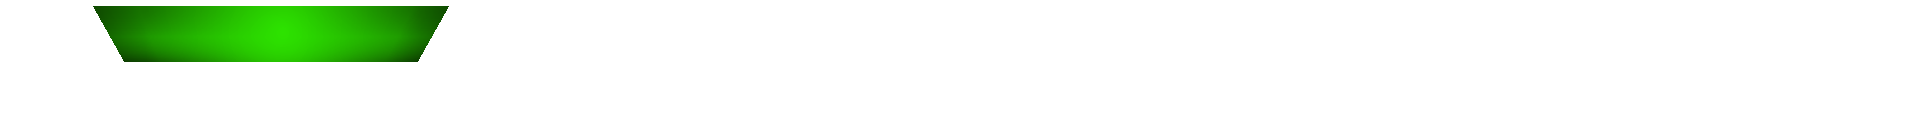
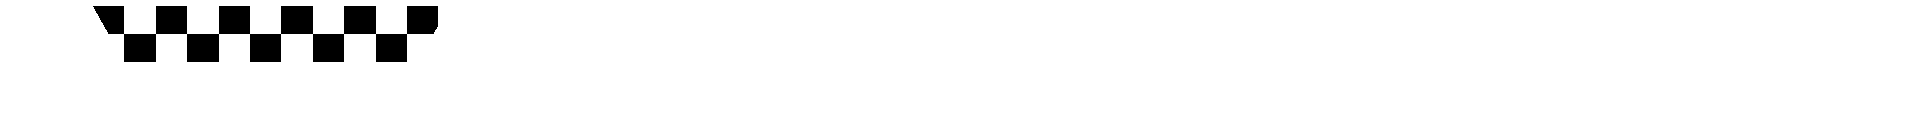
Add Podium Position Spots

Changed region(s): [[0.0312, 0.0476, 0.25, 0.5]]

diff --git a/NascarTicker.xaml b/NascarTicker.xaml
@@ -20,28 +20,19 @@
         Source="/Images/Custom Ticker/Nascar/Ticker-ScrollBar.png" RenderTransformOrigin="0,0"/>
         <Image Name="TickerFlag" HorizontalAlignment="Center" Height="126" VerticalAlignment="Center" Width="1520" 
         Source="/Images/Custom Ticker/Nascar/Ticker-Flag.png" RenderTransformOrigin="0,0"/>
-        <!--
-        <StackPanel>
-            <Grid Margin="0,0,0,10">
-                <TextBox x:Name="RaceInput"
-             Width="300"
-             Height="30"
-             TextChanged="RaceInput_TextChanged"
-             GotFocus="RaceInput_GotFocus"
-             LostFocus="RaceInput_LostFocus"/>
-                <TextBlock x:Name="Placeholder"
-               Text="Enter race name"
-               Foreground="Gray"
-               Margin="5,5,0,0"
-               IsHitTestVisible="False"
-               VerticalAlignment="Top"
-               Visibility="Visible"/>
-            </Grid>
-
-            <Button Content="Search" Width="100" Click="SearchButton_Click"/>
-            <ListBox x:Name="DriverList" Margin="0,10,0,10" Height="200"/>
-            <TextBlock x:Name="StatusText" Text="" Foreground="DarkGreen"/>
-        </StackPanel>
-        -->
+        <Image Name="TickerFlagOverlay" HorizontalAlignment="Center" Height="126" VerticalAlignment="Center" Width="1520" 
+        Source="/Images/Custom Ticker/Nascar/Ticker-Flag-Overlay.png" RenderTransformOrigin="0,0"/>
+        <Grid x:Name="Podium">
+            <Image Name="TickerPodiumPositions" HorizontalAlignment="Center" Height="126" VerticalAlignment="Center" Width="1520" 
+            Source="/Images/Custom Ticker/Nascar/Ticker-Podium-Position.png" RenderTransformOrigin="0,0"/>
+            <Image Name="TickerP1Base" HorizontalAlignment="Center" Height="126" VerticalAlignment="Center" Width="1520" 
+            Source="/Images/Custom Ticker/Nascar/Ticker-P1-Base.png" RenderTransformOrigin="0,0"/>
+            <Image Name="TickerP1Number" HorizontalAlignment="Center" Height="126" VerticalAlignment="Center" Width="1520" 
+            Source="/Images/Custom Ticker/Nascar/Ticker-P1-NumberCard.png" RenderTransformOrigin="0,0" Loaded="P1NumberLoaded"/>
+            <Image Name="TickerP1Name" HorizontalAlignment="Center" Height="126" VerticalAlignment="Center" Width="1520" 
+            Source="/Images/Custom Ticker/Nascar/Ticker-P1-Name.png" RenderTransformOrigin="0,0" Loaded="P1NameLoaded"/>
+            <Image Name="TickerP1Timing" HorizontalAlignment="Center" Height="126" VerticalAlignment="Center" Width="1520" 
+            Source="/Images/Custom Ticker/Nascar/Ticker-P1-Timing.png" RenderTransformOrigin="0,0" Loaded="P1TimingLoaded"/>
+        </Grid>
     </Grid>
 </local:Scoreboard>

diff --git a/NascarTicker.xaml.cs b/NascarTicker.xaml.cs
@@ -12,31 +12,47 @@ using System.Security.Policy;
 using System.Diagnostics;
 using System.Text;
 using System.Text.RegularExpressions;
+using System.Windows.Controls;
+using System.Windows.Media;
+using System.Windows.Media.Imaging;
+using System.Windows.Shapes;
+using System.Dynamic;
 
 
 namespace Desktop_Scorebug_WPF
 {
     public partial class NascarTicker : Scoreboard
     {
+        
         public NascarTicker()
         {
             InitializeComponent();
         }
-        private void Window_Loaded(object sender, RoutedEventArgs e)
+        private async void Window_Loaded(object sender, RoutedEventArgs e)
         {
+            JArray drivers = [];
+
+            getNumberCards("Daytona 2", 1);
             base.OnContentRendered(e);
-            getDriversArray();
+            drivers = await getRaceStateArray();
         }
 
-        private async void getDriversArray()
+        private async Task<JArray> getRaceStateArray()
         {
             JObject feed = await getVehiclesArray(1);
             JArray drivers = getDrivers(feed);
-            string flag_state = getFlagState(feed);
 
             Debug.WriteLine(drivers.ToString());
-            Debug.WriteLine(flag_state);
+
+            return drivers;
         }
+
+        private async void updateFlagState()
+        {
+            JObject feed = await getVehiclesArray(1);
+            changeFlagColor(feed);
+        }
+
 
         private async Task<JObject> getVehiclesArray(int feed)
         {
@@ -82,6 +98,36 @@ namespace Desktop_Scorebug_WPF
             }
             //Debug.WriteLine(names.ToString());
             return names;
+        }
+
+        private async Task<JArray> getNumbersArray()
+        {
+            JObject feed = await getVehiclesArray(1);
+
+            JArray array = (JArray)feed["vehicles"];
+
+            JArray numbers = [];
+
+            foreach (JObject eventObj in array)
+            {
+                // This grabs the "name" property if it exists directly in the event object
+                var driverNumber = eventObj["vehicle_number"];
+                if (driverNumber == null) continue;
+
+                numbers.Add(driverNumber);
+            }
+            //Debug.WriteLine(names.ToString());
+            return numbers;
+        }
+
+        private string getDriverAtPosition(JArray Drivers, int position)
+        {
+            return Drivers[position - 1].ToString();
+        }
+
+        private string getNumber(JArray Numbers, int position)
+        {
+            return Numbers[position-1].ToString();
         }
 
         private string getFlagState(JObject json)
@@ -134,11 +180,25 @@ namespace Desktop_Scorebug_WPF
                             foreach (var imgUrl in images)
                             {
                                 string filename = $"{driver["Number"]}.jpg";
-                                await DownloadAndSaveImage(imgUrl, race, filename);
+                                await DownloadAndSaveImage(imgUrl, "C:\\Users\\Jacob\\Desktop\\Desktop Scorebug WPF\\Desktop Scorebug WPF\\Images\\Temp\\", filename);
                             }
                         }
                     }
                 }
+            }
+        }
+
+        private void changeFlagColor(JObject feed)
+        {
+            string state = getFlagState(feed);
+
+            switch(state){
+                case "1":
+                    RecolorImageWithAlpha(TickerFlag, System.Drawing.ColorTranslator.FromHtml("#00b509"));
+                    break;
+                default:
+                    break;
+
             }
         }
 
@@ -287,22 +347,28 @@ namespace Desktop_Scorebug_WPF
         {
             try
             {
-                if (!Directory.Exists(directory)) Directory.CreateDirectory(directory);
+                // Convert relative path to absolute path
+                var fullDirectory = System.IO.Path.GetFullPath(directory);
+
+                if (!Directory.Exists(fullDirectory))
+                    Directory.CreateDirectory(fullDirectory);
 
                 using var client = new HttpClient();
                 var data = await client.GetAsync(url);
                 data.EnsureSuccessStatusCode();
 
-                var path = Path.Combine(directory, filename);
+                var path = System.IO.Path.Combine(fullDirectory, filename);
                 await using var stream = await data.Content.ReadAsStreamAsync();
                 await using var fs = new FileStream(path, FileMode.Create);
                 await stream.CopyToAsync(fs);
             }
             catch (Exception e)
             {
-                //StatusText.Text = $"Image error: {e.Message}";
+                // Handle error as needed
+                // e.g., log it or display it
             }
         }
+
 
         string BestMatch(string sponsor, IEnumerable<string> sponsorList)
         {
@@ -325,6 +391,84 @@ namespace Desktop_Scorebug_WPF
             var matcher = new Levenshtein(a);
             var dist = matcher.DistanceFrom(b);
             return 1.0 - (double)dist / Math.Max(a.Length, b.Length);
+        }
+
+        private async void P1NameLoaded(object sender, RoutedEventArgs e)
+        {
+            string p1Name = "";
+
+            JObject feed = await getVehiclesArray(1);
+            JArray drivers = getDrivers(feed);
+
+            p1Name = getDriverAtPosition(drivers, 1);
+
+            ReplaceSquareInImageWithTextBox(TickerP1Name, "P1Name");
+
+            TextBox found = (TextBox)Podium.Children
+                .OfType<TextBox>()
+                .FirstOrDefault(tb => tb.Name == "P1Name");
+            if (found != null)
+
+            {
+                found.Text = p1Name;
+                AddTextOutline(found, Colors.Black, 10.0);
+            }
+        }
+        private async void P1NumberLoaded(object sender, RoutedEventArgs e)
+        {
+            string number = getNumber(await getNumbersArray(), 1);
+
+            string imagePath = "C:\\Users\\Jacob\\Desktop\\Desktop Scorebug WPF\\Desktop Scorebug WPF\\Images\\Temp\\#" + number +".jpg";
+            BitmapImage fillBitmap = new BitmapImage();
+
+            fillBitmap.BeginInit();
+            fillBitmap.UriSource = new Uri(imagePath, UriKind.Absolute);
+            fillBitmap.CacheOption = BitmapCacheOption.OnLoad;      
+            fillBitmap.EndInit();
+            fillBitmap.Freeze();
+
+            FillImageWithImageMaskWidthBased(TickerP1Number, new Image { Source = fillBitmap });
+        }
+
+        private async void P1TimingLoaded(object sender, RoutedEventArgs e)
+        {
+            ReplaceSquareInImageWithTextBox(TickerP1Timing, "P1Timing");
+
+            TextBox found = (TextBox)Podium.Children
+                .OfType<TextBox>()
+                .FirstOrDefault(tb => tb.Name == "P1Timing");
+            if (found != null)
+
+            {
+                found.Text = "";
+                AddTextOutline(found, Colors.Black, 10.0);
+            }
+        }
+        protected override void OnClosed(EventArgs e)
+        {
+            string folderPath = "C:\\Users\\Jacob\\Desktop\\Desktop Scorebug WPF\\Desktop Scorebug WPF\\Images\\Temp";
+
+            if (Directory.Exists(folderPath))
+            {
+                // Delete all files
+                foreach (string file in Directory.GetFiles(folderPath))
+                {
+                    File.Delete(file);
+                }
+
+                // Delete all subdirectories (and their contents)
+                foreach (string dir in Directory.GetDirectories(folderPath))
+                {
+                    Directory.Delete(dir, true); // true = recursive
+                }
+
+                Console.WriteLine("Folder contents wiped successfully.");
+            }
+            else
+            {
+                Console.WriteLine("Folder not found.");
+            }
+            base.OnClosed(e);
         }
     }
 }

diff --git a/Scoreboard.cs b/Scoreboard.cs
@@ -332,6 +332,101 @@ namespace Desktop_Scorebug_WPF
             targetImage.Source = recoloredBitmap;
         }
 
+        public void FillImageWithImageMaskWidthBased(Image targetImage, Image fillImage)
+        {
+            if (targetImage.Source is not BitmapSource shapeBitmap)
+                throw new InvalidOperationException("The target Image does not contain a valid BitmapSource.");
+            if (fillImage.Source is not BitmapSource fillBitmap)
+                throw new InvalidOperationException("The fill Image does not contain a valid BitmapSource.");
+
+            int shapeWidth = shapeBitmap.PixelWidth;
+            int shapeHeight = shapeBitmap.PixelHeight;
+            int stride = shapeWidth * 4;
+
+            // Convert shape to BGRA32
+            var shapeFormatted = new FormatConvertedBitmap(shapeBitmap, PixelFormats.Bgra32, null, 0);
+            byte[] shapePixels = new byte[shapeHeight * stride];
+            shapeFormatted.CopyPixels(shapePixels, stride, 0);
+
+            // Find bounding box of visible (non-transparent) pixels
+            int minX = shapeWidth, minY = shapeHeight, maxX = 0, maxY = 0;
+            for (int y = 0; y < shapeHeight; y++)
+            {
+                for (int x = 0; x < shapeWidth; x++)
+                {
+                    int i = (y * shapeWidth + x) * 4;
+                    byte alpha = shapePixels[i + 3];
+                    if (alpha > 0)
+                    {
+                        if (x < minX) minX = x;
+                        if (x > maxX) maxX = x;
+                        if (y < minY) minY = y;
+                        if (y > maxY) maxY = y;
+                    }
+                }
+            }
+
+            if (minX >= maxX || minY >= maxY)
+                return;
+
+            int boxWidth = maxX - minX + 1;
+            int boxHeight = maxY - minY + 1;
+
+            // Scale fill image proportionally based only on width
+            double scale = (double)boxWidth / fillBitmap.PixelWidth;
+            int scaledWidth = (int)(fillBitmap.PixelWidth * scale);
+            int scaledHeight = (int)(fillBitmap.PixelHeight * scale);
+
+            int offsetX = minX + (boxWidth - scaledWidth) / 2;
+            int offsetY = minY + (boxHeight - scaledHeight) / 2;
+
+            // Scale the fill image
+            var scaledFill = new TransformedBitmap(fillBitmap, new ScaleTransform(scale, scale));
+            var fillFormatted = new FormatConvertedBitmap(scaledFill, PixelFormats.Bgra32, null, 0);
+
+            byte[] fillPixels = new byte[scaledHeight * scaledWidth * 4];
+            int fillStride = scaledWidth * 4;
+            fillFormatted.CopyPixels(fillPixels, fillStride, 0);
+
+            // Prepare transparent output buffer
+            byte[] finalPixels = new byte[shapeHeight * stride];
+
+            // Blend fill image with shape alpha
+            for (int y = 0; y < scaledHeight; y++)
+            {
+                for (int x = 0; x < scaledWidth; x++)
+                {
+                    int destX = offsetX + x;
+                    int destY = offsetY + y;
+
+                    if (destX < 0 || destX >= shapeWidth || destY < 0 || destY >= shapeHeight)
+                        continue;
+
+                    int srcIndex = (y * scaledWidth + x) * 4;
+                    int dstIndex = (destY * shapeWidth + destX) * 4;
+
+                    byte shapeAlpha = shapePixels[dstIndex + 3];
+                    byte fillAlpha = fillPixels[srcIndex + 3];
+
+                    if (shapeAlpha == 0) continue; // keep transparent
+
+                    // Combine alpha (multiply mask alpha with fill alpha)
+                    double alphaFactor = shapeAlpha / 255.0 * fillAlpha / 255.0;
+
+                    finalPixels[dstIndex + 0] = (byte)(fillPixels[srcIndex + 0] * alphaFactor);
+                    finalPixels[dstIndex + 1] = (byte)(fillPixels[srcIndex + 1] * alphaFactor);
+                    finalPixels[dstIndex + 2] = (byte)(fillPixels[srcIndex + 2] * alphaFactor);
+                    finalPixels[dstIndex + 3] = (byte)(255 * alphaFactor);
+                }
+            }
+
+            WriteableBitmap result = new WriteableBitmap(shapeWidth, shapeHeight, 96, 96, PixelFormats.Bgra32, null);
+            result.WritePixels(new Int32Rect(0, 0, shapeWidth, shapeHeight), finalPixels, stride, 0);
+
+            targetImage.Source = result;
+        }
+
+
         public void FillImageWithImageMask(Image targetImage, Image fillImage)
         {
             if (targetImage.Source is not BitmapSource shapeBitmap)
